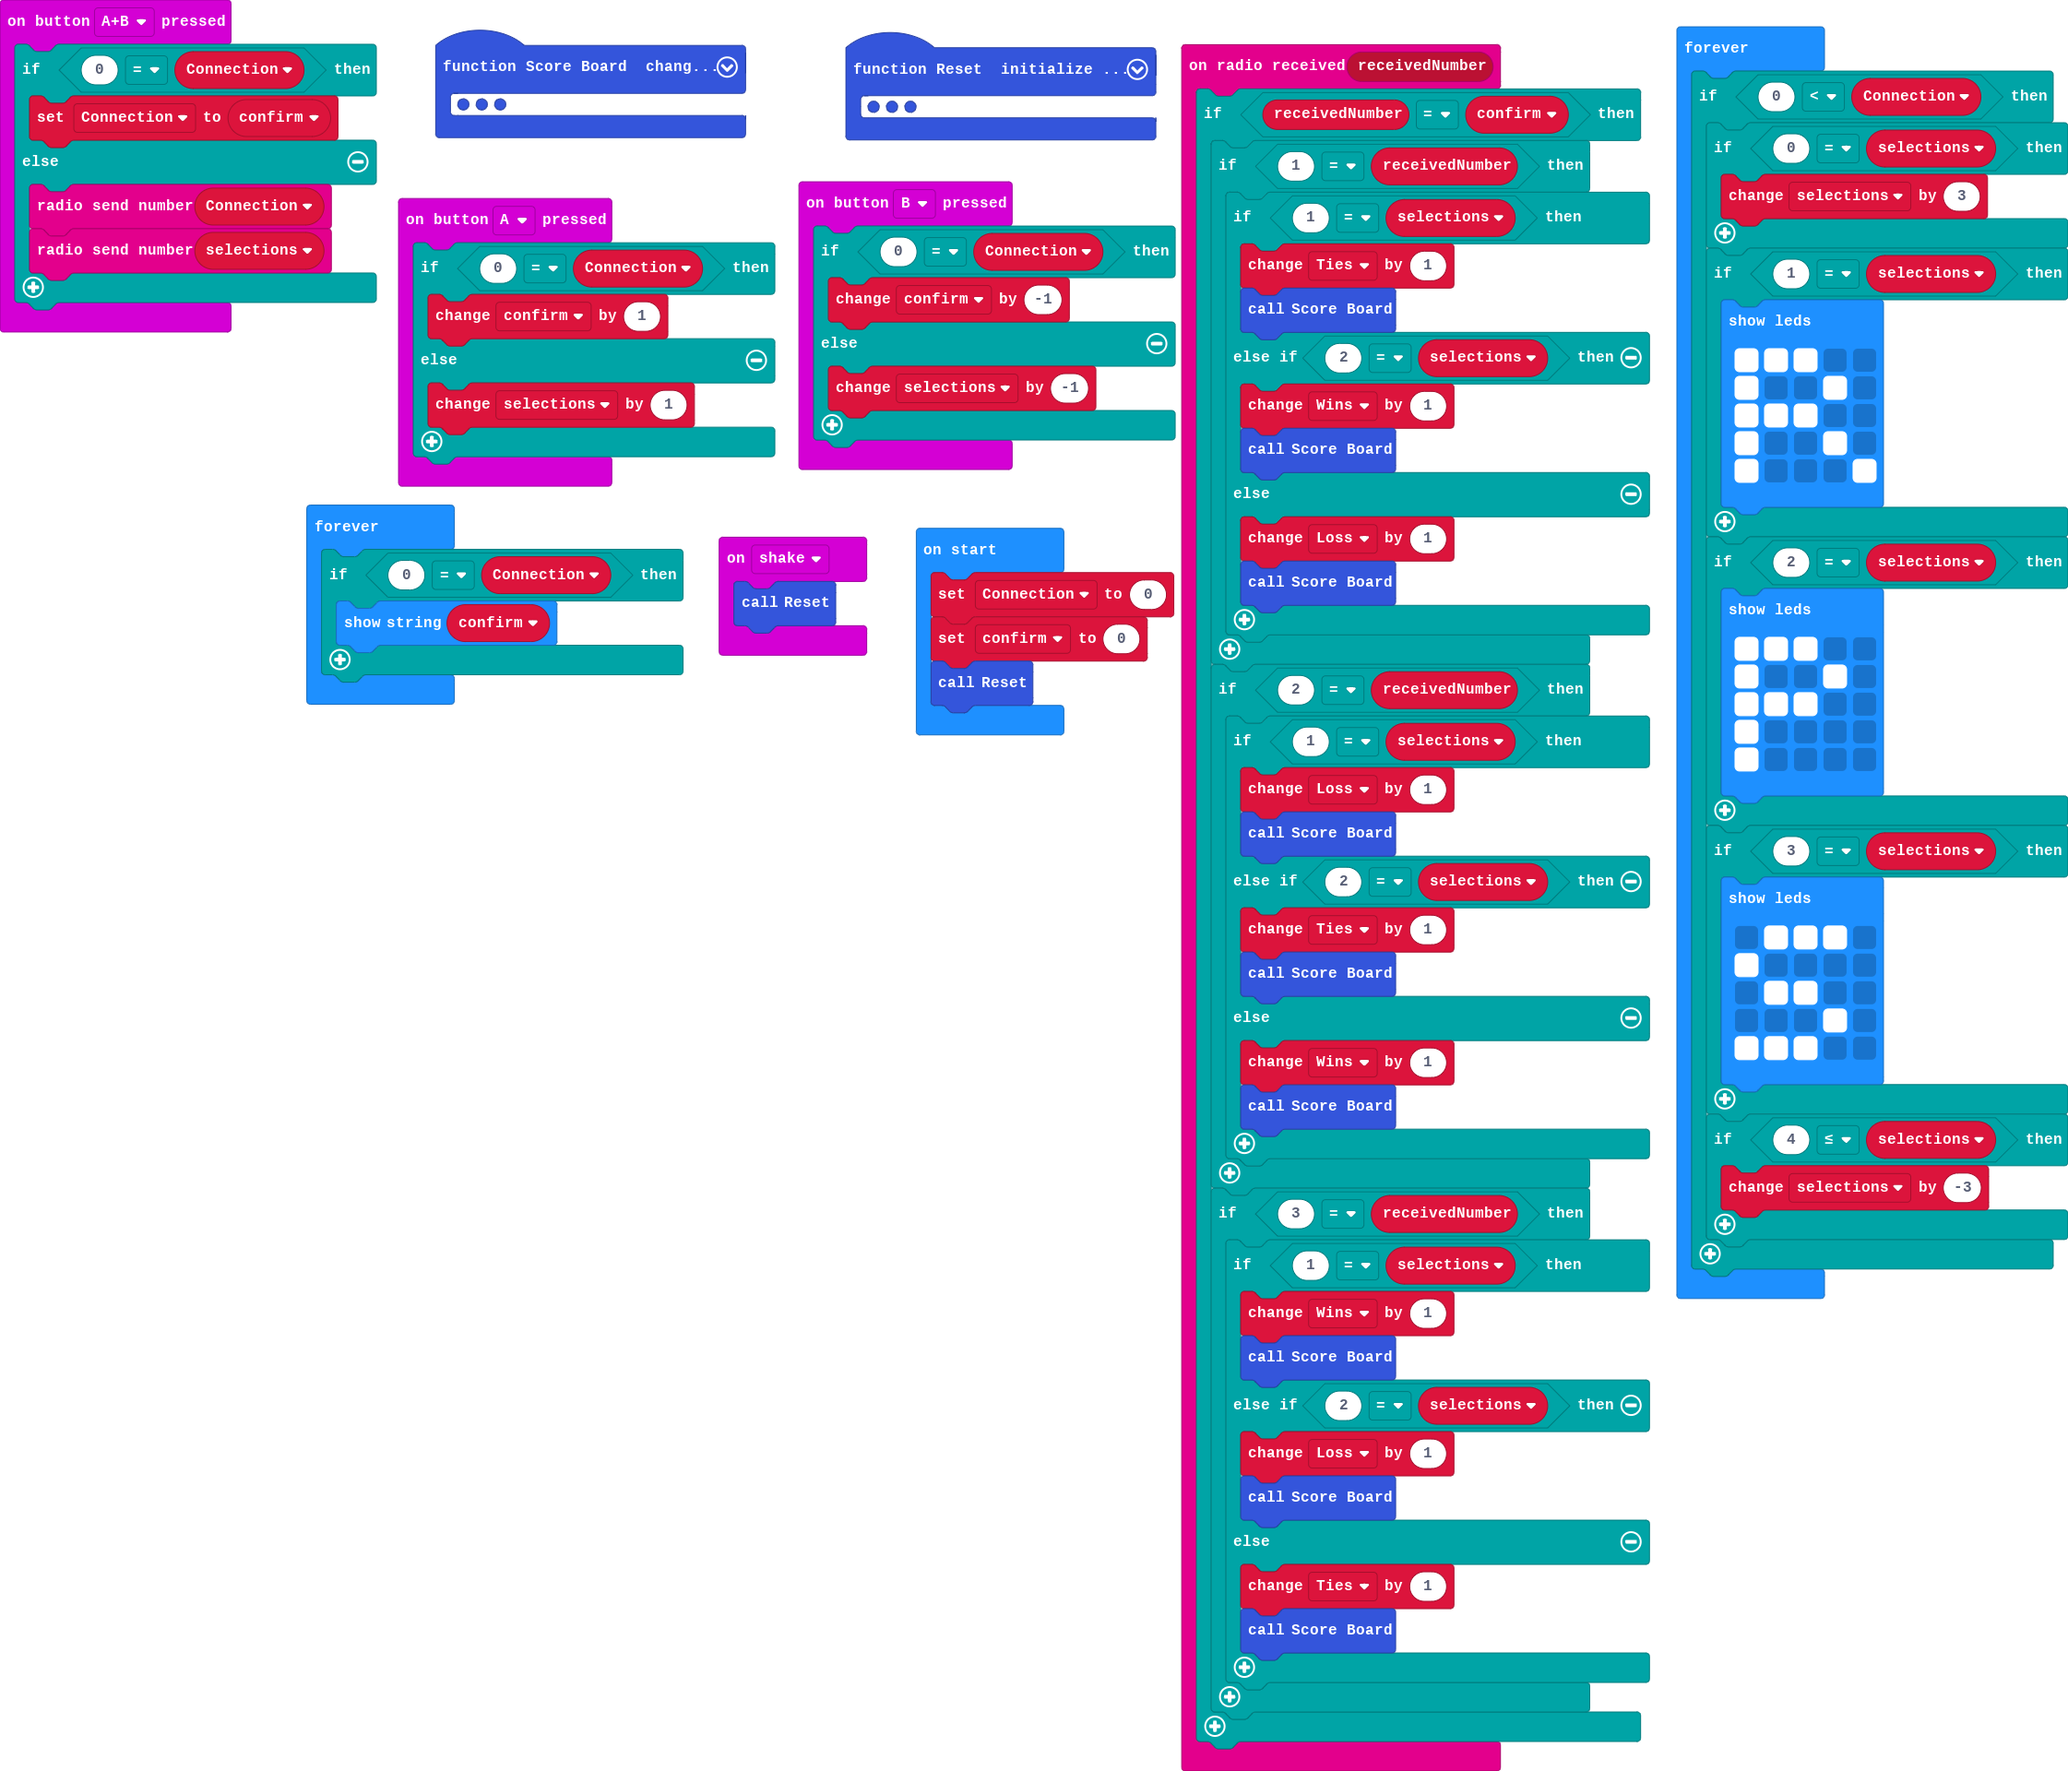
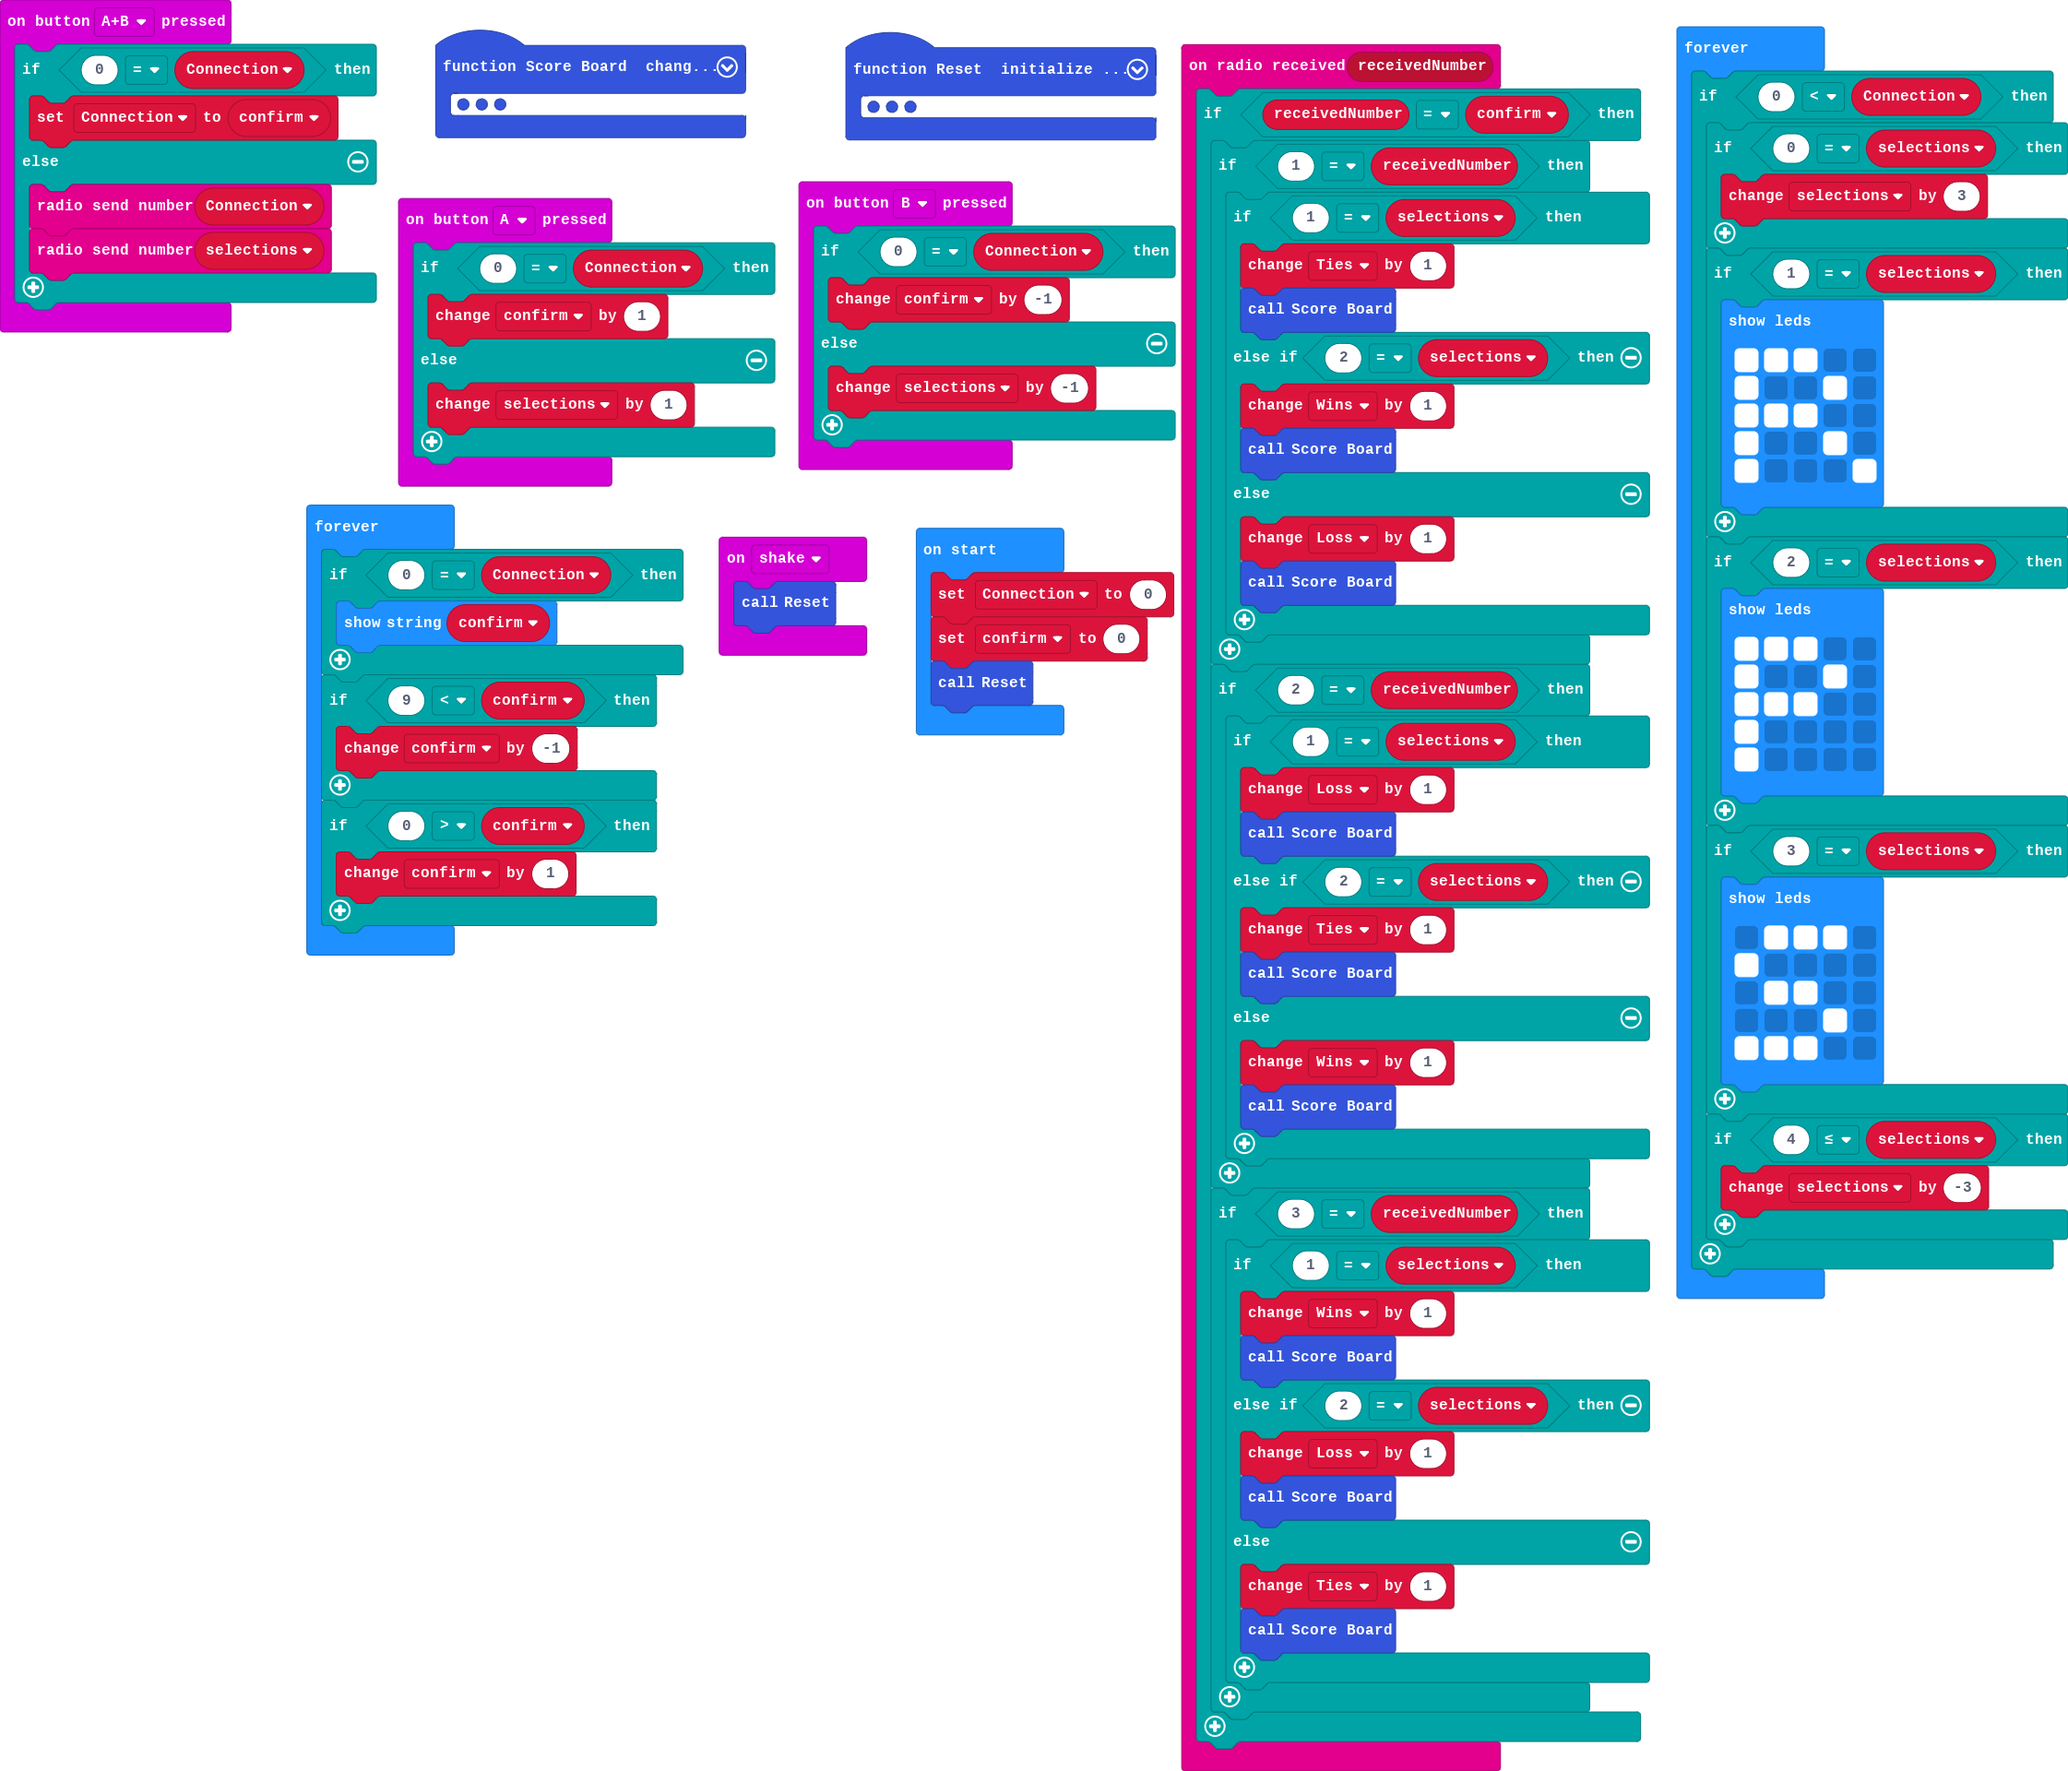
Update main.blocks, main.ts

Changed region(s): [[0.1249, 0.375, 0.3434, 0.5625]]

diff --git a/main.ts b/main.ts
@@ -134,4 +134,10 @@ basic.forever(function () {
     if (0 == Connection) {
         basic.showString("" + (confirm))
     }
+    if (9 < confirm) {
+        confirm += -1
+    }
+    if (0 > confirm) {
+        confirm += 1
+    }
 })
